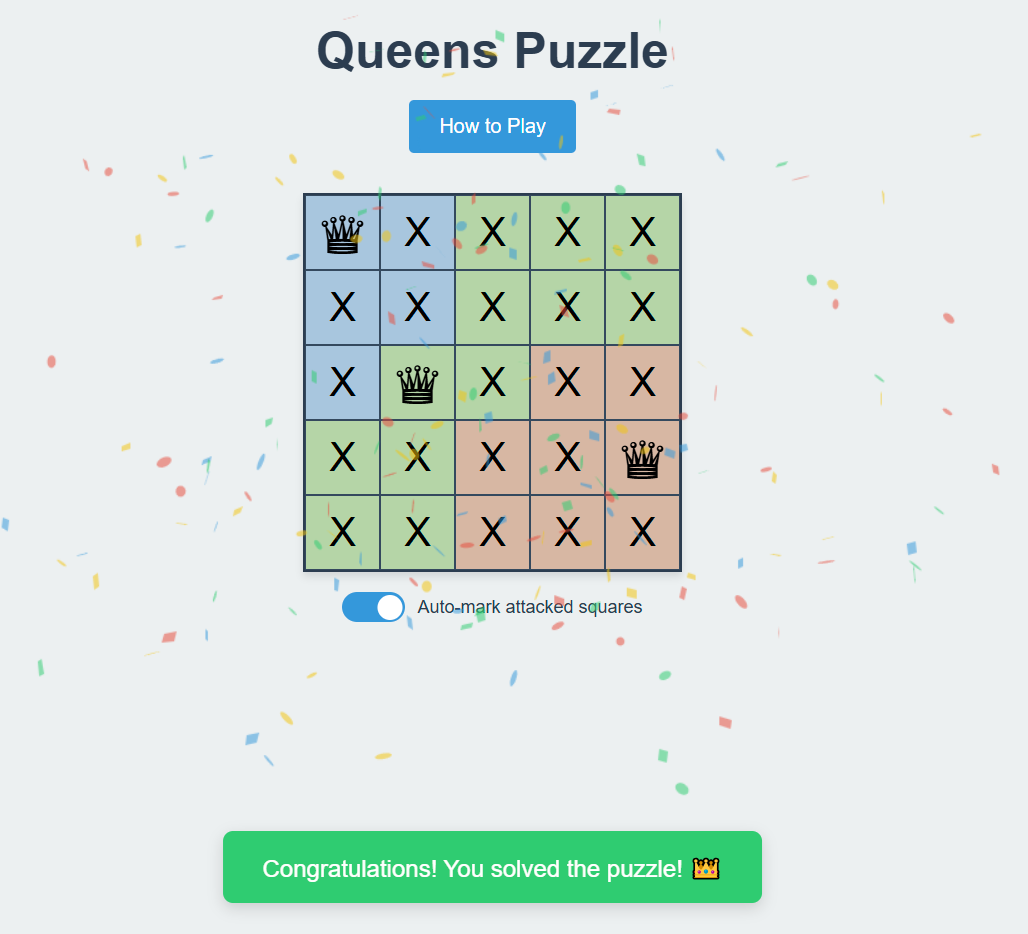
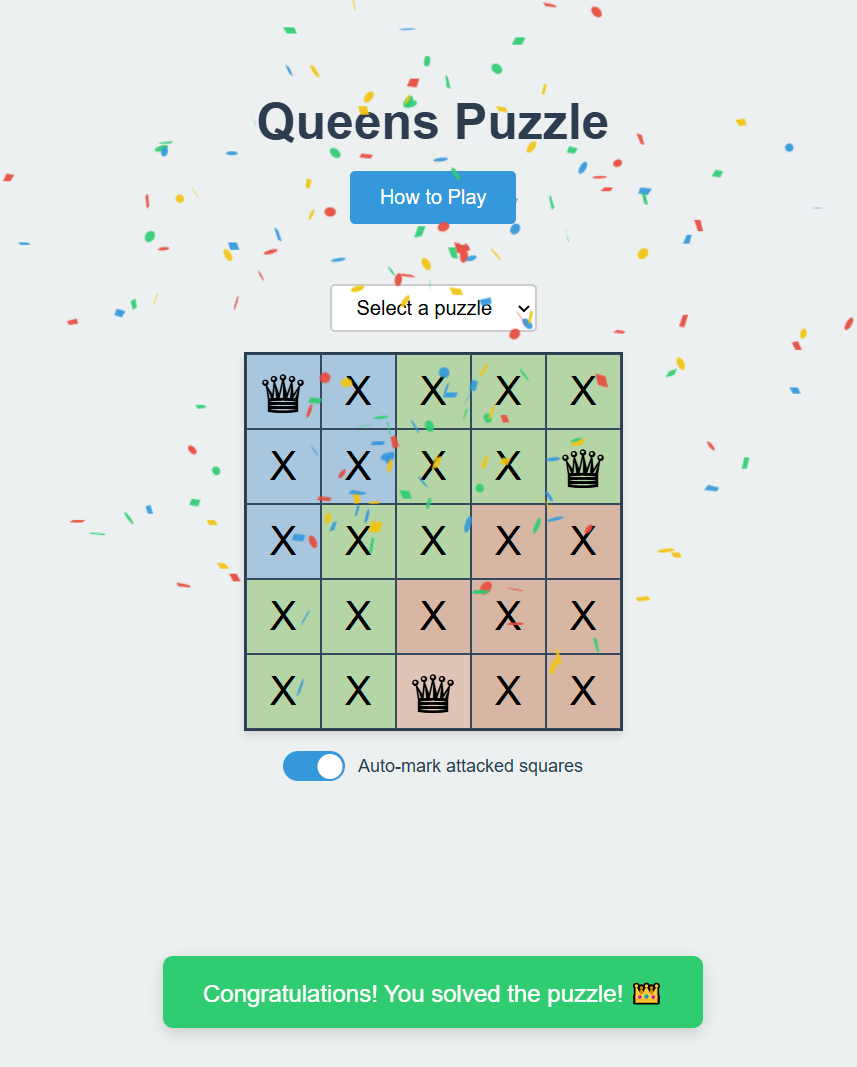
✨ feat: add multiple puzzle support with region layouts
Added puzzle generator and selection functionality:
- New puzzle generator creates unique layouts
- Dropdown menu for puzzle selection
- Enhanced hover effects with region colors
- Support for rotation and flipping of layouts

diff --git a/README.md b/README.md
@@ -26,11 +26,14 @@ A puzzle game where you need to place queens on a 5x5 board following specific r
 
 ## Features
 
+- **Multiple Puzzles**: Choose from a variety of puzzles with different region layouts
 - **Auto-X Mode**: Automatically marks all squares that are attacked by placed queens
 - **Visual Feedback**: 
   - Invalid placements show error messages
   - Winning condition triggers a celebration animation
+  - Enhanced hover effects with region-specific colors
 - **Interactive Tutorial**: Helps players learn the game mechanics
+- **Puzzle Selection**: Switch between different puzzles using the dropdown menu
 
 ## Technical Implementation
 
@@ -42,6 +45,12 @@ The game is implemented in TypeScript with a focus on clean, maintainable code. 
 - Validates queen placements
 - Tracks attacked squares
 - Checks win conditions
+- Loads and manages multiple puzzle layouts
+
+### Puzzle Generator
+- Creates unique puzzles with different region layouts
+- Ensures each puzzle has a valid solution
+- Supports rotation and flipping of region layouts for variety
 
 ### State Management
 - Board state tracks position of queens and X markers
